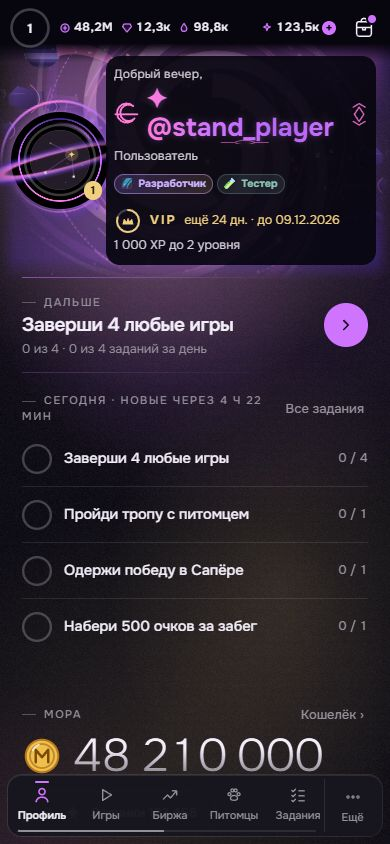
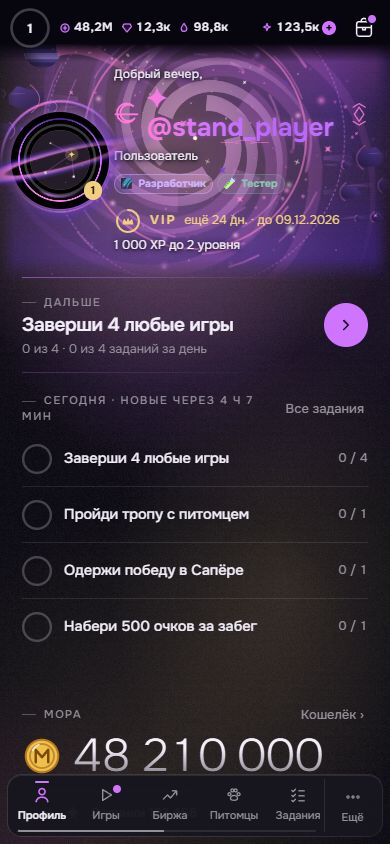
fix(predvestnik): убрать чёрную плашку из профиля

diff --git a/predvestnik_v2/FastAPI/static/shell-v3-home.css b/predvestnik_v2/FastAPI/static/shell-v3-home.css
@@ -39,10 +39,9 @@ body { --v3-bar-h: 52px; --v3-vip: #f1cf7e; padding-top: calc(var(--v3-bar-h) + 
 .v3-num { background: linear-gradient(180deg, var(--v3-ink) 35%, color-mix(in srgb, var(--v3-ink) 48%, var(--v3-bg))); -webkit-background-clip: text; background-clip: text; -webkit-text-fill-color: transparent; }
 .v3-id { position: relative; isolation: isolate; }
 .v3-id-copy { min-width: 0; }
-/* Keep profile text readable independently of the scene's brightest animation frame. */
-#pro-main > .ap-stage .v3-id-copy { position: relative; isolation: isolate; flex: 1; }
-#pro-main > .ap-stage .v3-id-copy::before { content: ""; position: absolute; inset: -10px -8px; z-index: -1; border-radius: 14px; background: color-mix(in srgb, var(--v3-bg) 92%, transparent); pointer-events: none; }
-#pro-main > .ap-stage .v3-id-copy :is(.v3-greet, .v3-sub) { color: color-mix(in srgb, var(--v3-ink) 85%, var(--v3-bg)); }
+/* Text follows the scene without covering the equipped appearance. */
+#pro-main > .ap-stage .v3-id-copy { flex: 1; }
+#pro-main > .ap-stage .v3-id-copy :is(.v3-greet, .v3-sub) { color: var(--v3-ink); text-shadow: 0 1px 3px var(--v3-bg), 0 0 8px var(--v3-bg); }
 .v3-id::before { content: ""; position: absolute; left: -35%; top: -70%; width: 150%; height: 240%; z-index: -1; pointer-events: none; background: radial-gradient(closest-side, rgba(var(--acc-rgb), .15), transparent); animation: v3drift 14s ease-in-out infinite alternate; }
 @keyframes v3drift { to { transform: translate3d(6%, 5%, 0) scale(1.1); } }
 @keyframes v3spin { to { transform: rotate(360deg); } }

diff --git a/predvestnik_v2/tools/test_player_copy_contract.py b/predvestnik_v2/tools/test_player_copy_contract.py
@@ -14,6 +14,15 @@ from services import quests_v1 as quest_rewards
 from bot.chat import family as family_chat, settings as chat_settings, streak as streak_chat
 from core import coin_market_v2, mafia_online, mafia_v1, marks_v1
 
+from core import dm_push as dm_push_rules, dm_tickets
+from bot.chat.notify import DM_NAME_MAX
+from datetime import datetime, timedelta, timezone
+from types import SimpleNamespace
+from bot.chat.transfer import MAX_AMOUNT, fmt, transfer_letter
+from core.economy_contract import CURRENCY_SPECS
+from core.skins_v3_catalog import SEASONS, SKINS
+from services.dm_push_events import _holiday_text
+
 ROOT = Path(__file__).resolve().parents[1]
 STATIC = ROOT / "FastAPI" / "static"
 guide = json.loads((STATIC / "guide-v3.json").read_text(encoding="utf-8"))
@@ -143,7 +152,6 @@ for relative in ("bot/chat/word_chain.py", "services/word_chain.py", "bot/chat/i
 word_copy = json.dumps(topics["words"], ensure_ascii=False)
 for value in (word_chain.MIN_LENGTH, word_chain.MAX_LENGTH, word_chain.MAX_TURNS, word_chain.TURN_COOLDOWN_SECONDS, word_chain.SOLO_PLAIN_MINUTES, word_chain.IDLE_MINUTES, word_chain.BOT_MESSAGES_KEPT):
     assert str(value) in word_copy, f"words: число {value} расходится с правилами"
-from core import dm_push as dm_push_rules, dm_tickets
 support_copy = json.dumps(topics["support"], ensure_ascii=False)
 for value in (dm_tickets.MIN_TEXT, dm_tickets.MAX_TEXT):
     assert str(value) in support_copy, f"support: число {value} расходится с правилами"
@@ -161,7 +169,6 @@ for relative in ("services/season_report.py", "services/dm_push_events.py", "cor
 
 
 # Уведомления в личку (S23cw): заголовок и одна строка «что сделать», короткая кнопка-действие. Итог сезона — отчёт, он отдельно.
-from bot.chat.notify import DM_NAME_MAX
 
 _NAME = "Ж" * DM_NAME_MAX   # ник и название чата подставляются самой большой длины, какую пропускает bot/chat/notify.short_name
 _CHAT = f"«{_NAME}»"
@@ -221,12 +228,6 @@ def _letter_fits(label: str, text: str) -> None:
 
 
 # Готовые письма, а не шаблоны: подстановка может растянуть их сильнее, чем видно по «{}» (замечание ревью S23cw)
-from datetime import datetime, timedelta, timezone
-from types import SimpleNamespace
-from bot.chat.transfer import MAX_AMOUNT, fmt, transfer_letter
-from core.economy_contract import CURRENCY_SPECS
-from core.skins_v3_catalog import SEASONS, SKINS
-from services.dm_push_events import _holiday_text
 
 _now = datetime(2027, 1, 1, tzinfo=timezone.utc)
 for season_id in SEASONS:   # новичок без единого образа сезона: весь список недостающих из настоящего каталога

diff --git a/predvestnik_v2/docs/audits/AUTONOMOUS_RELEASE_BACKLOG.md b/predvestnik_v2/docs/audits/AUTONOMOUS_RELEASE_BACKLOG.md
@@ -1,6 +1,6 @@
 ## UX-2026-11-16 — читаемый профиль, согласованный VIP и первый шаг в топах (локально)
 
-- По поручению владельца нижнее меню не менялось. Профиль с образом получил подложку только под текстом; псевдоэлемент не сужает имя, обычный профиль сохраняет min-width:0. Сцены, аватары и оформление имени сохранены. Проверено в IAB на 320/390/430, включая длинное имя без образа; горизонтальное переполнение документа — 0. Для 42 палитр расчёт второстепенного текста при максимально ярком фоне даёт не меньше 10,33:1. Это расчёт подложки и текста, не сертификация всех элементов доступности. Отдельного переключателя светлой темы в текущем интерфейсе нет.
+- По поручению владельца нижнее меню не менялось. Отклонённая владельцем чёрная подложка текста удалена до выпуска. Профиль сохраняет цельную сцену; только обычные подписи получили цвет основного текста и мягкую тень, оформление ника не менялось. Проверено в IAB на 320/390/430: псевдоэлемента под текстом нет, горизонтальное переполнение — 0. Старый расчёт контраста для непрозрачной плашки к этому виду неприменим; универсальное отношение контраста анимированной сцены не заявляется.
 - Число ключей VIP берётся из KEY_SOURCE_COUNTS (2) в общей строке для бота/сайта; обе темы Путеводителя согласованы и защищены адресной проверкой числа, а не наличием случайной цифры в теме. Уточнено, что считаются выполненные поручения и подходят обычные Ритм/Сапёр и Мафия в чате. Рейтинговые уровни прежде не засчитывали поручение и теперь не обещаются; начисления не менялись.
 - Оба вида пустого топа используют общее описание и действие: обычный Ритм/Сапёр, правильная тема чатовской Мафии, подсказки по сообщениям. Подсказки объясняют участие, обычные игры и задержку сообщений. Закрытая игра не получает кнопку запуска. В браузере проверены обычный маршрут /rhythm-v2 и возврат к играм, тема «Мафия: игра с друзьями», новые подсказки и согласованный VIP.
 - Проверено: test_top_empty_actions.js (полный/компактный топ, обработчики, режимы, выключатели, ошибки и экранирование), test_player_copy_contract.py, test_guide_coverage.py, test_guide_navigation.js, test_appearance_v3.py, test_vip_v2_pg.py на отдельной PostgreSQL 17 (55433, vip_v2_contract), test_patch_notes_contract.py, Ruff изменённых Python-файлов, синтаксис 3 Python-файлов и всего доставляемого JS (50 частей), git diff --check. Read-only критика плана исправила ошибочные маршруты Мафии/Рейтинга; финальное ревью без блокеров. Старый test_shell_v3_contract.py падает на строке glint из app.20.js: проверяемой строки нет и в HEAD, app.20.js не менялся. Тест не ослабляли. В IAB отмечена отмена browser ViewTransition при возврате; текущий page-transitions.js обрабатывает её, переходы не заблокированы.
